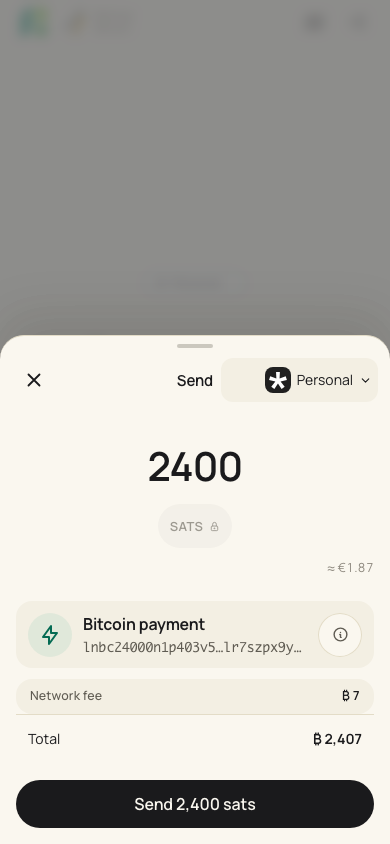
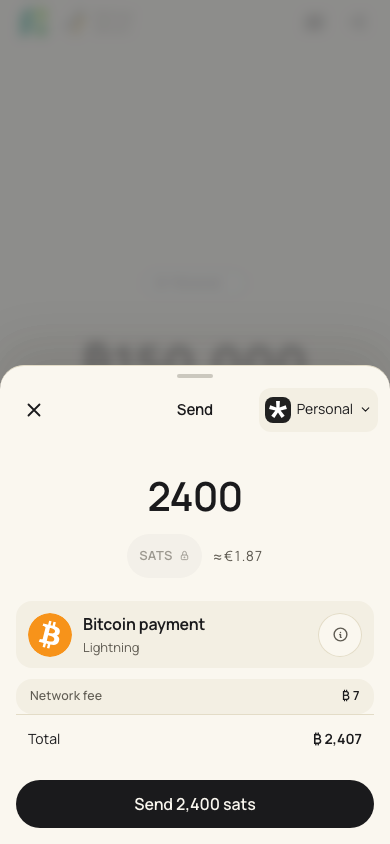
fix(payments): hide encoded requests and align amount summary

diff --git a/src/components/PaymentConfirmSheet.vue b/src/components/PaymentConfirmSheet.vue
@@ -121,21 +121,24 @@
               :tabindex="amountMode === 'fixed' ? -1 : undefined"
               :autofocus="!contextual"
             />
-            <button
-              type="button"
-              class="unit-pill"
-              :disabled="amountMode === 'fixed'"
-              @click="toggleCurrency"
-            >
-              <span>{{ unitPillLabel }}</span>
-              <Icon v-if="amountMode !== 'fixed'" icon="tabler:arrows-up-down" width="11" height="11" />
-              <Icon v-else icon="tabler:lock" width="11" height="11" />
-            </button>
-            <!-- One helper row in the banking manner: limits on the left,
-                 the conversion on the right. Either side may be empty. -->
-            <div v-if="limitsHelperText || fiatEquivalent" class="amount-helper">
+            <div class="amount-denomination">
+              <button
+                type="button"
+                class="unit-pill"
+                :disabled="amountMode === 'fixed'"
+                @click="toggleCurrency"
+              >
+                <span>{{ unitPillLabel }}</span>
+                <Icon v-if="amountMode !== 'fixed'" icon="tabler:arrows-up-down" width="11" height="11" />
+                <Icon v-else icon="tabler:lock" width="11" height="11" />
+              </button>
+              <span v-if="verb === 'send' && fiatEquivalent" class="amount-conversion">{{ fiatEquivalent }}</span>
+            </div>
+            <!-- Keep the denomination and its conversion together; limits
+                 remain a separate helper so neither pushes the other away. -->
+            <div v-if="limitsHelperText || (verb !== 'send' && fiatEquivalent)" class="amount-helper">
               <span>{{ limitsHelperText }}</span>
-              <span class="amount-helper-convert">{{ fiatEquivalent }}</span>
+              <span v-if="verb !== 'send'" class="amount-helper-convert">{{ fiatEquivalent }}</span>
             </div>
             <!-- A till code's own rand amount, beside the person's display
                  currency, so the price at the till stays in view. -->
@@ -172,8 +175,6 @@
               :class="{
                 'has-logo': showRecipientLogo,
                 'recipient-avatar--type': verb === 'send' && !recipientUsesIdentity,
-                'recipient-avatar--brand': verb === 'send' && !recipientUsesIdentity && !!recipientMethodMark,
-                'recipient-avatar--arkade': verb === 'send' && !recipientUsesIdentity && recipientMethodMark === 'arkade',
                 'recipient-avatar--silhouette': isSilhouetteRecipient || isServiceRecipient
               }"
               :style="showRecipientLogo
@@ -192,8 +193,7 @@
                 @error="logoFailed = true"
               />
               <!-- A service keeps its storefront fallback if its logo fails. -->
-              <WalletBrandMark v-else-if="verb === 'send' && !recipientUsesIdentity && recipientMethodMark" :type="recipientMethodMark" :size="24" />
-              <Icon v-else-if="verb === 'send' && !recipientUsesIdentity" :icon="recipientTypeIcon" width="24" height="24" />
+              <img v-else-if="verb === 'send' && !recipientUsesIdentity" src="/icons/bitcoin.svg" alt="" class="recipient-bitcoin-logo" />
               <Icon v-else-if="isServiceRecipient" icon="tabler:building-store" width="24" height="24" />
               <svg
                 v-else-if="isSilhouetteRecipient"
@@ -738,7 +738,15 @@ export default {
     // stays one tap away behind the info button.
     recipientAddressLabel() {
       if (this.recipientVerification) return ''
-      if (this.verb === 'send' && !this.recipientLnService) return this.recipientAddress
+      if (this.verb === 'send') {
+        if (this.payment?.recipient?.addressType === 'lightning') {
+          return this.payment?.recipient?.addressLabel || this.recipientAddress
+        }
+        // Encoded destinations belong in Payment details, even shortened.
+        // A quiet method label keeps the route recognizable on the review.
+        const label = { spark: 'Spark', arkade: 'Arkade', bitcoin: 'On-chain', lightning: 'Lightning', invoice: 'Lightning', lnurl: 'Lightning' }[this.recipientMethod]
+        return label ? this.$t(label) : ''
+      }
       return this.payment?.recipient?.addressLabel || this.recipientAddress
     },
     isServiceRecipient() {
@@ -1636,7 +1644,9 @@ export default {
   align-items: center;
   justify-content: flex-end;
   gap: 6px;
-  width: 100%;
+  width: fit-content;
+  max-width: 100%;
+  justify-self: end;
   min-width: 0;
   min-height: 44px;
   padding: 6px;
@@ -1663,9 +1673,8 @@ export default {
 .sheet-card--send .stage-compose > * { flex-shrink: 0; }
 .sheet-card--send .amount-stage { padding: 18px 0 12px; }
 .sheet-card--send .note-input { font-size: 1rem; min-width: 0; }
-.sheet-card--send .recipient-avatar--type { background: var(--brand-accent-soft) !important; color: var(--brand-accent-text); box-shadow: none; text-shadow: none; }
-.sheet-card--send .recipient-avatar--brand { background: #202020 !important; }
-.sheet-card--send .recipient-avatar--arkade { background: var(--arkade-tile, #202020) !important; }
+.sheet-card--send .recipient-avatar--type { background: transparent !important; box-shadow: none; text-shadow: none; }
+.recipient-bitcoin-logo { width: 44px; height: 44px; display: block; }
 .recipient-method-cue { display: grid; place-items: center; flex: 0 0 20px; width: 20px; height: 20px; border-radius: 6px; color: var(--text-secondary); }
 .recipient-method-cue--brand { background: #202020; }
 .recipient-method-cue--arkade { background: var(--arkade-tile, #202020); }
@@ -1687,11 +1696,16 @@ export default {
 .sheet-card--send .top-action { flex: 0 0 24px; width: 24px; }
 .sheet-card--send .primary-cta { height: auto; min-height: 48px; padding: 12px; font-size: 1rem; overflow-wrap: anywhere; }
 .sheet-card--send .recipient-name { font-size: 1rem; white-space: normal; overflow-wrap: anywhere; }
-.sheet-card--send .recipient-addr { font-size: .8125rem; }
+.sheet-card--send .recipient-addr { font-size: .8125rem; font-family: inherit; }
 .sheet-card--send .amount-helper,
 .sheet-card--send .wallet-hint,
 .sheet-card--send .fee-footnote { font-size: .8125rem; }
 .sheet-card--send .unit-pill { min-height: 44px; font-size: .8125rem; }
+.amount-denomination { display: contents; }
+.sheet-card--send .amount-denomination { display: flex; align-items: center; justify-content: center; flex-wrap: wrap; gap: 4px 12px; max-width: 100%; }
+.sheet-card--send .amount-conversion { font-size: .875rem; line-height: 1.5; color: var(--text-secondary); font-variant-numeric: tabular-nums; }
+.sheet-card--send .amount-helper { justify-content: center; text-align: center; }
+.sheet-card--send .unit-pill:disabled { opacity: 1; }
 .sheet-card--send button:focus-visible { outline: 2px solid var(--brand-accent-text); outline-offset: 3px; }
 
 .payment-preparation-details { display: flex; flex-direction: column; gap: 12px; }

diff --git a/src/components/__tests__/payWithField.spec.js b/src/components/__tests__/payWithField.spec.js
@@ -715,13 +715,15 @@ test('root dismiss uses Cancel and x; child return uses Back and chevron', async
   }
 })
 
-test('anonymous method icons stay secondary to the generic recipient name', async () => {
-  for (const [network, mark, icon] of [['Spark', 'spark', null], ['Arkade', 'arkade', null], ['Lightning', null, 'tabler:bolt'], ['Bitcoin', null, 'tabler:currency-bitcoin']]) {
-    const payment = { recipient: { name: 'Bitcoin payment', addressType: 'invoice', address: 'payment-request' }, amount: { mode: 'fixed', fixedSats: 1000 }, details: { networkLabel: network } }
+test('generic payments use the original Bitcoin logo and keep encoded requests exclusively in details', async () => {
+  for (const [network, label] of [['Spark', 'Spark'], ['Arkade', 'Arkade'], ['Lightning', 'Lightning'], ['Bitcoin', 'On-chain']]) {
+    const address = 'lnbc24000n1' + 'rawsignedrequest'.repeat(8)
+    const payment = { recipient: { name: 'Bitcoin payment', addressType: 'invoice', address }, amount: { mode: 'fixed', fixedSats: 1000 }, details: { networkLabel: network, address } }
     const html = await render(ConfirmSheet, sheetProps({ payment, payingWallets: [] }), { directives: sheetDirectives })
     assert.match(html, /class="recipient-name">Bitcoin payment/)
-    if (mark) assert.match(html, new RegExp(`data-mark="${mark}"`))
-    else assert.match(html, new RegExp(`data-icon="${icon}"`))
+    assert.match(html, /src="\/icons\/bitcoin.svg" alt(?:="")? class="recipient-bitcoin-logo"/)
+    assert.match(html, new RegExp(`class="recipient-addr">${label}<`))
+    assert.ok(!html.includes(address.slice(0, 17)), 'even a shortened invoice stays out of the main review')
     assert.doesNotMatch(html, /class="recipient-method-cue"/, 'anonymous payment uses the existing icon area')
   }
 })

diff --git a/docs/PAYMENT_PREPARATION.md b/docs/PAYMENT_PREPARATION.md
@@ -8,7 +8,7 @@ The design follows Apple’s guidance for [typography](https://developer.apple.c
 
 ## Shared payment review
 
-Scanned, pasted and contact payments use one review sheet. The header contains an icon for closing the sheet (a chevron when returning from a child view), Send and a compact wallet selector. The amount leads, followed by one recipient card, the available fee summary and the existing Send or slide-to-send action. Anonymous recipients remain **Bitcoin payment**; saved contacts and known businesses keep their names. The default screen shows only a short identifier and a small payment-method cue; the amount and recipient carry the visual emphasis.
+Scanned, pasted and contact payments use one review sheet. The header contains an icon for closing the sheet (a chevron when returning from a child view), Send and a wallet selector sized to its contents. The amount leads, with its denomination/lock and fiat conversion centered together immediately below it, followed by one recipient card, the available fee summary and the existing Send or slide-to-send action. Anonymous recipients remain **Bitcoin payment**, using the original orange Bitcoin logo; saved contacts and known businesses keep their names and avatars. The default screen shows a readable Lightning address or a quiet payment-method label, never an encoded request, even shortened. Technical destinations stay in Payment details; the amount and recipient carry the visual emphasis.
 
 Wallet selection and **Payment details** are child views inside that same sheet. The wallet list includes names, types, balances, the selected state and reasons a wallet cannot pay. Details contains the full payment request/address, Copy, the payment type/network, message and useful metadata. Returning keeps the amount, denomination, comment and selected wallet. The exact signed Spark invoice is kept separately from its durable recipient address.
 
